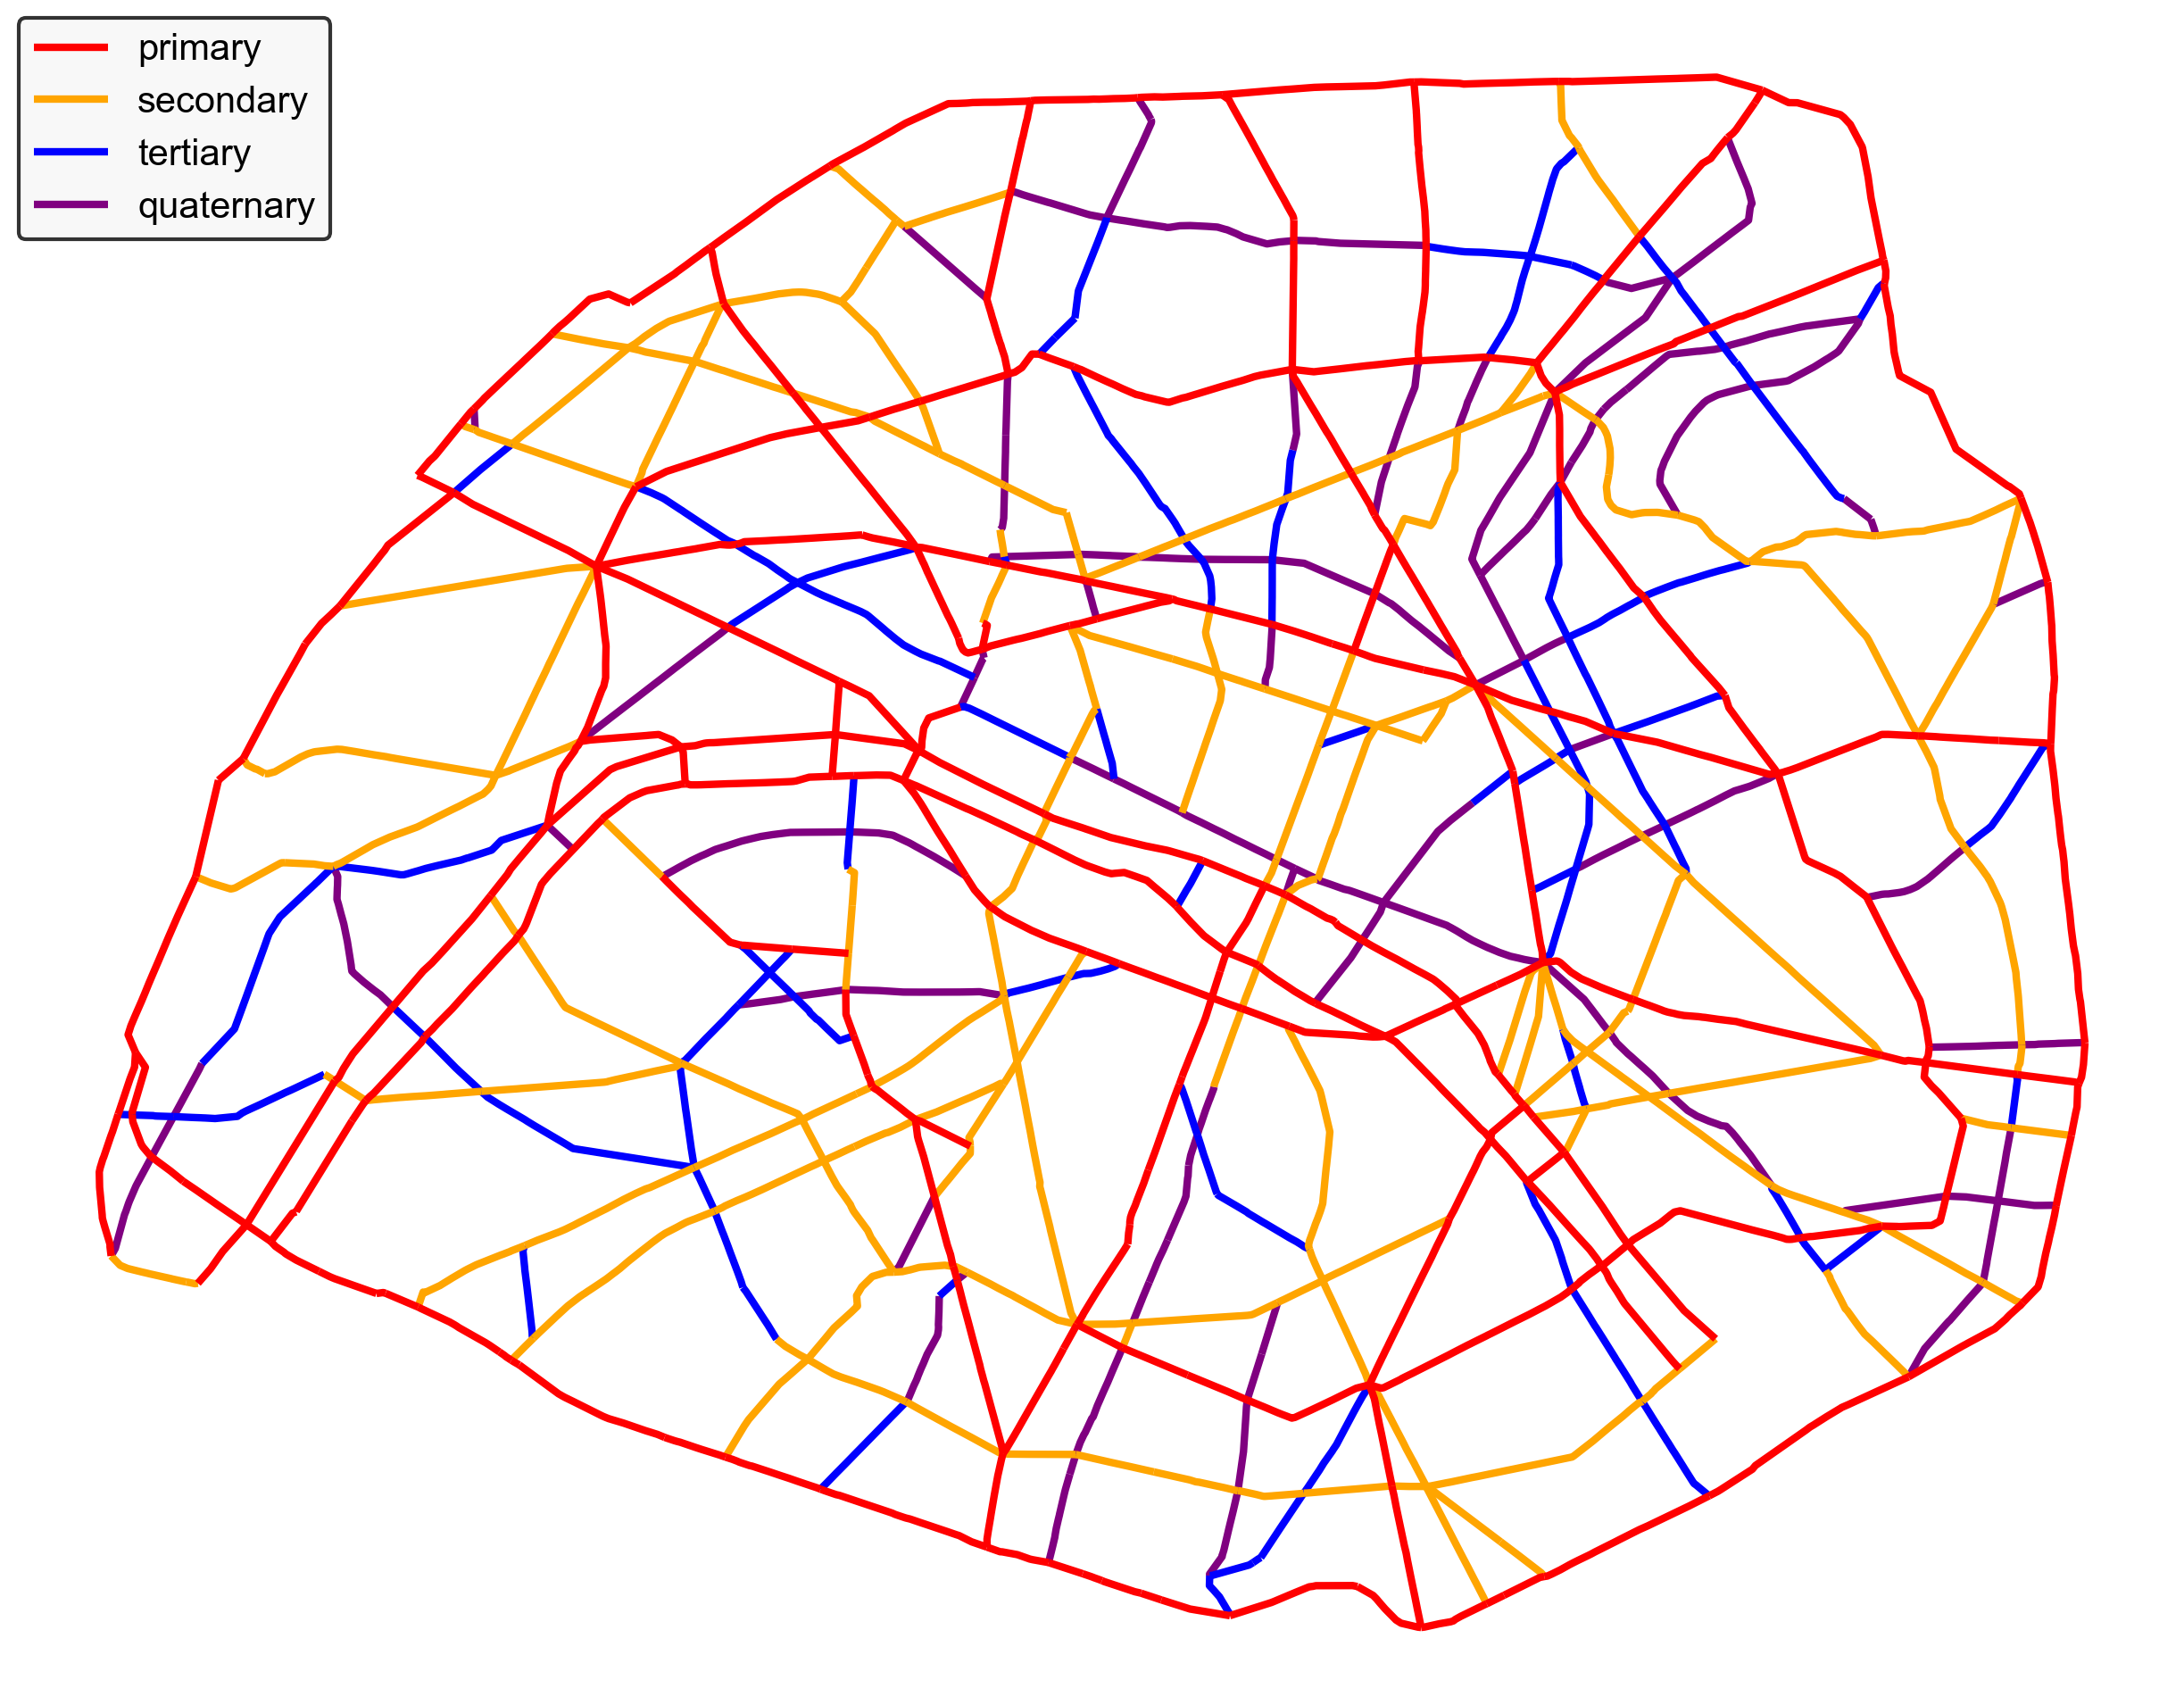
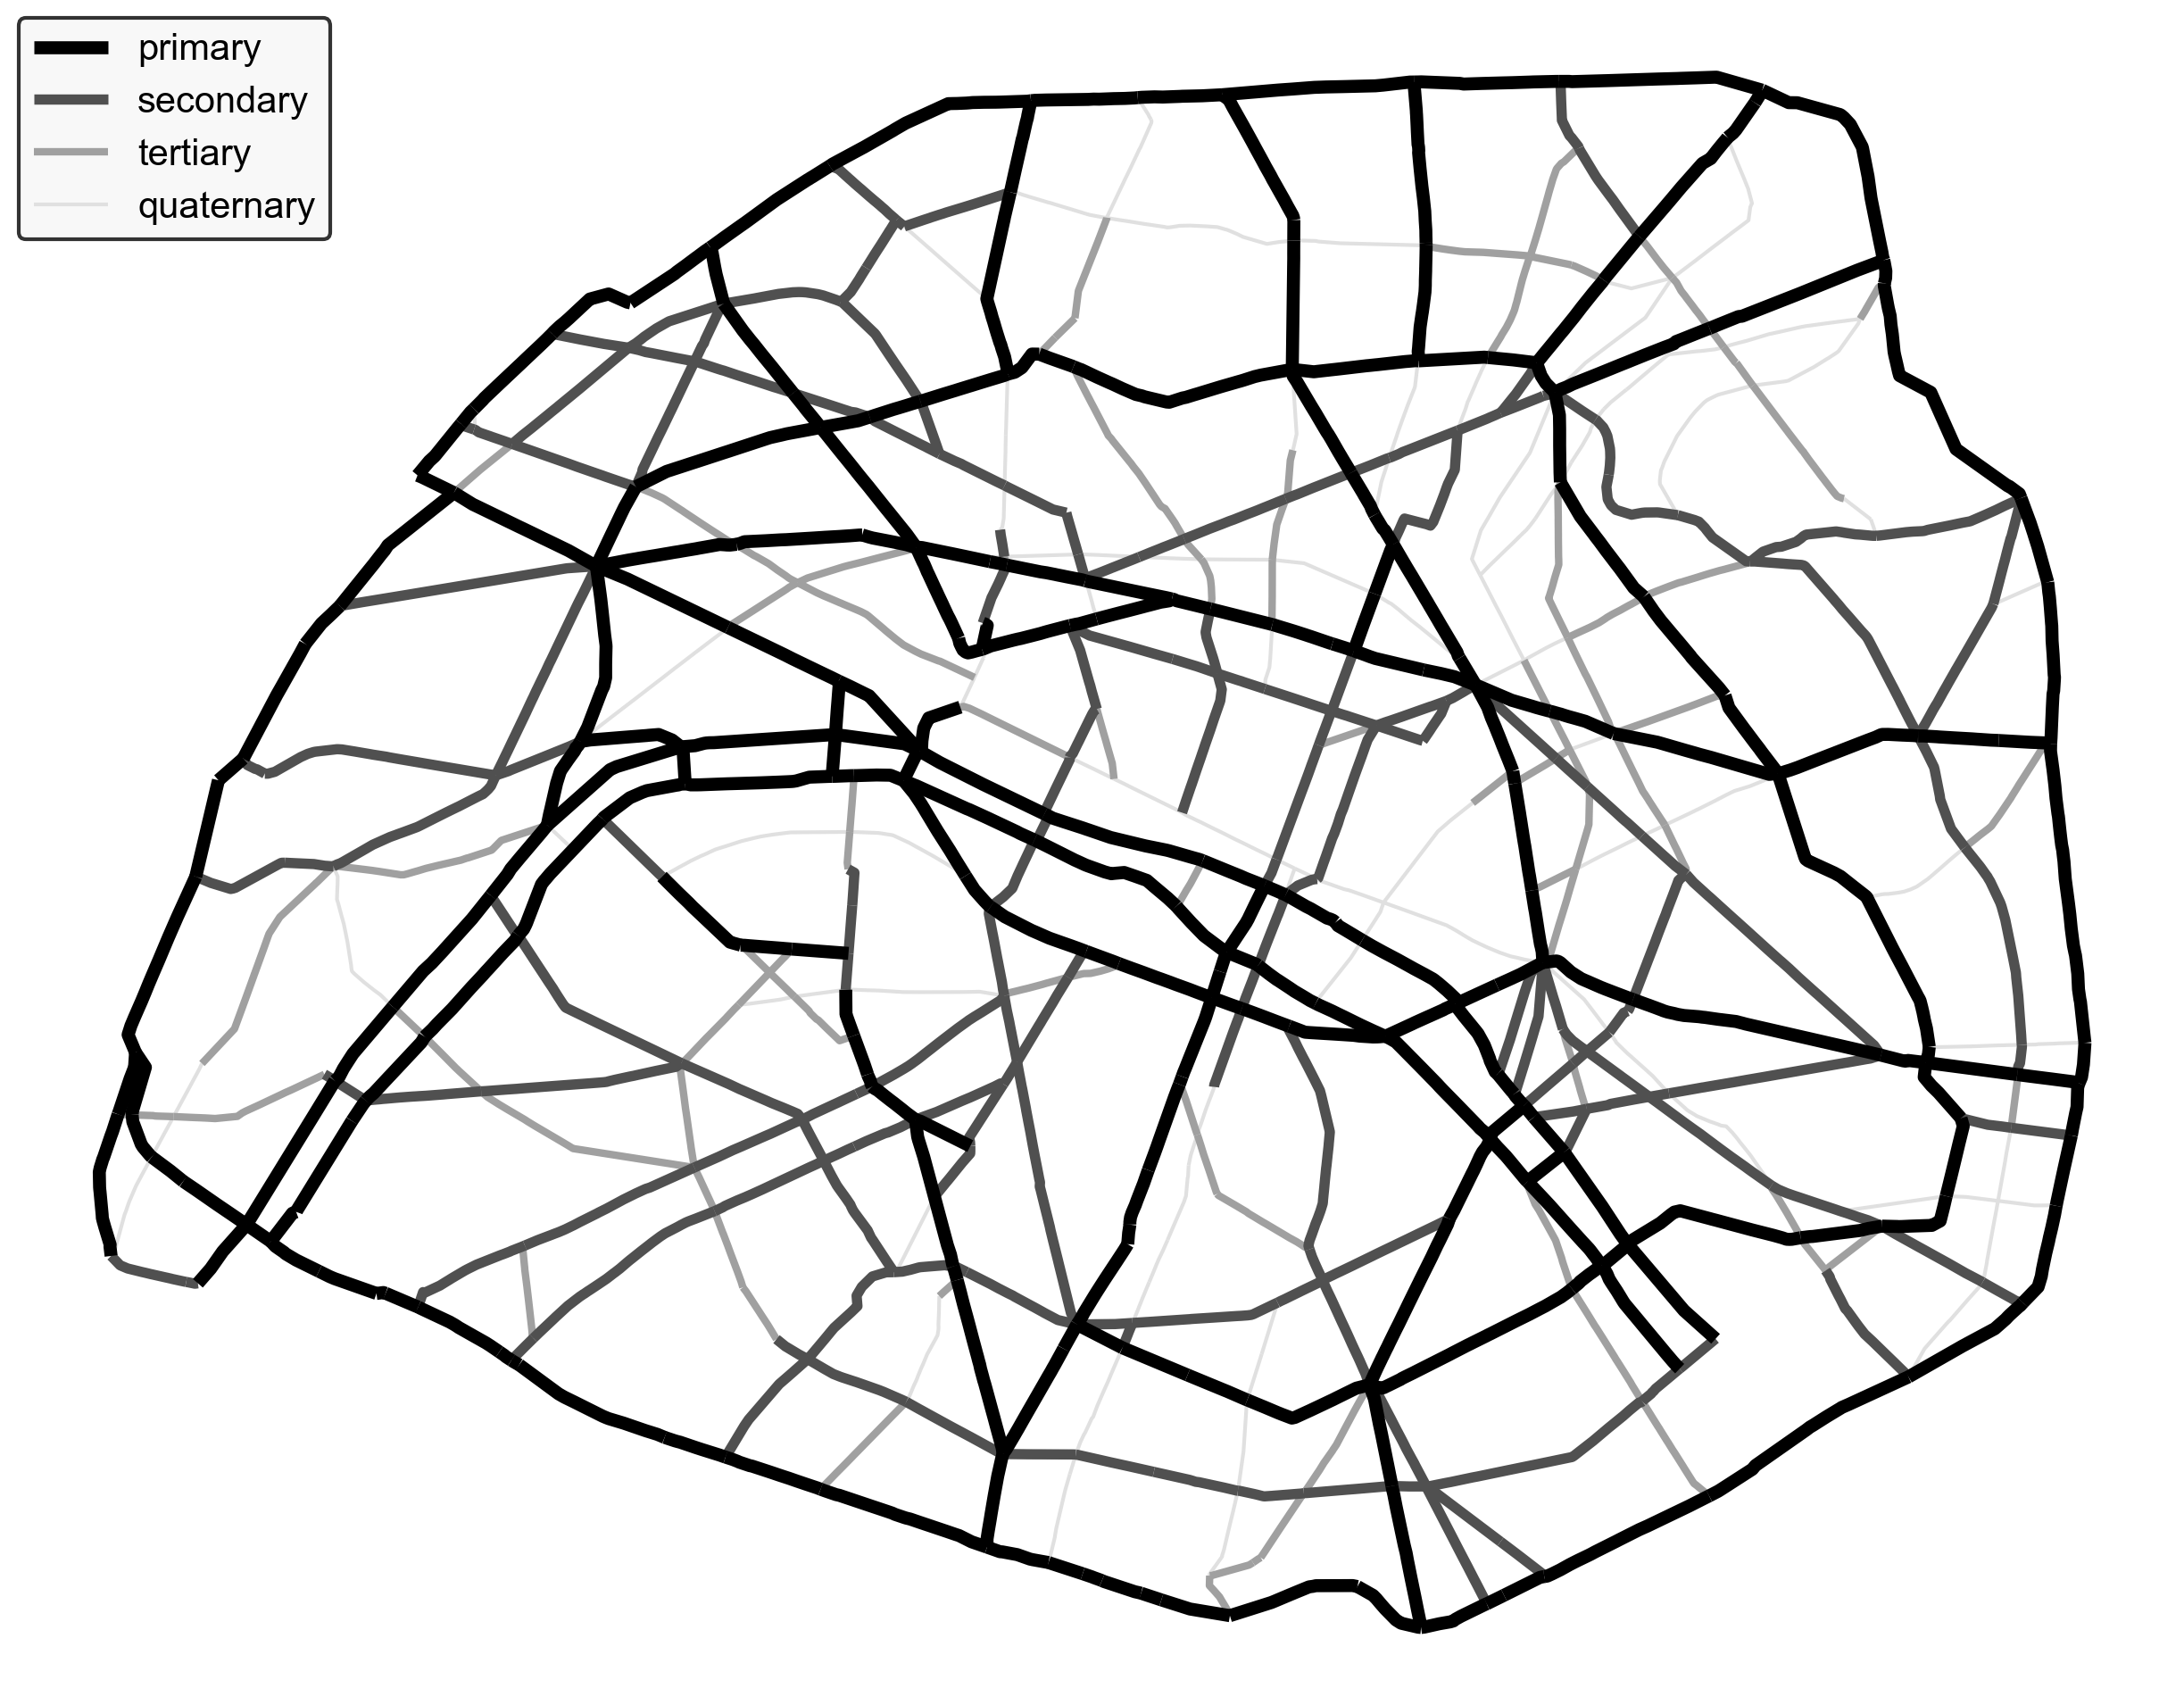
Update with 2026, prepare TODOS and hedgehog

diff --git a/scripts/N_plot_bikenet_single_map.py b/scripts/N_plot_bikenet_single_map.py
@@ -5,17 +5,31 @@ Plot map of the bicycle network, showing either the road hierarchy next to the b
 
 import os
 import geopandas as gpd
-import numpy as np
 import matplotlib as mpl
 from matplotlib import pyplot as plt
-from C_process_joined_pes import TIMESTAMPS
 from G_grow_bikenet import FOLDEROOT
 from I_plot_lineplot import FOLDERPLOT
-from J_plot_lineplot_hierarchy import ROAD_HIERARCHY, COLOR_HIERARCHY
 
 FOLDERMAPS = FOLDERPLOT + "maps/"
 FIGSIZE = [11.69, 8.27]
-LINEWIDTH = 2
+ROAD_HIERARCHY = [
+    "primary",
+    "secondary",
+    "tertiary",
+    "quaternary",
+]
+COLOR_HIERARCHY = [
+    "#000000",
+    "#505050",
+    "#A0A0A0",
+    "#E0E0E0",
+]
+LINEWIDTHS_HIERARCHY = [
+    3.5,
+    2.75,
+    2,
+    1,
+]
 DPI = 300
 RCPARAMS = {
     "font.size": 10,
@@ -25,11 +39,6 @@ RCPARAMS = {
     "legend.facecolor": "F7F7F7",
     "legend.loc": "upper left",
 }
-COLOR_BEG = "grey"
-COLOR_TIMESTAMPS = [
-    plt.get_cmap("summer")(val) for val in np.linspace(0, 1, len(TIMESTAMPS))
-]
-COLOR_END = "red"
 
 
 def main():
@@ -38,13 +47,12 @@ def main():
         os.makedirs(FOLDERMAPS)
     for key in RCPARAMS:
         mpl.rcParams[key] = RCPARAMS[key]
-    # Plot the hierarchy
     fig, ax = plt.subplots(figsize=FIGSIZE)
     for i in range(len(ROAD_HIERARCHY)):
         gdf_edges[gdf_edges["highway"] == ROAD_HIERARCHY[i]].plot(
             ax=ax,
             color=COLOR_HIERARCHY[i],
-            linewidth=LINEWIDTH,
+            linewidth=LINEWIDTHS_HIERARCHY[i],
             label=ROAD_HIERARCHY[i],
             zorder=5 - i,
         )
@@ -52,36 +60,6 @@ def main():
     ax.axis("off")
     fig.savefig(
         FOLDERMAPS + "Road_hierarchy.png", dpi=DPI, bbox_inches="tight", pad_inches=0
-    )
-    plt.close(fig=fig)
-    # Plot the time built
-    fig, ax = plt.subplots(figsize=FIGSIZE)
-    gdf_edges[gdf_edges["built_in"] == "2021-01-01"].plot(
-        ax=ax,
-        color=COLOR_BEG,
-        linewidth=LINEWIDTH,
-        label="Built before 2021",
-        zorder=10,
-    )
-    for i in range(len(TIMESTAMPS)):
-        gdf_edges[gdf_edges["built_in"] == TIMESTAMPS[i]].plot(
-            ax=ax,
-            color=COLOR_TIMESTAMPS[i],
-            linewidth=LINEWIDTH,
-            label=f"Built at {TIMESTAMPS[i]}",
-            zorder=10 - 1 - i,
-        )
-    gdf_edges[gdf_edges["built_in"] == "No"].plot(
-        ax=ax,
-        color=COLOR_END,
-        linewidth=LINEWIDTH,
-        label="Not built yet",
-        zorder=10 - 2 - len(TIMESTAMPS),
-    )
-    ax.legend()
-    ax.axis("off")
-    fig.savefig(
-        FOLDERMAPS + "Time_built.png", dpi=DPI, bbox_inches="tight", pad_inches=0
     )
     plt.close(fig=fig)
 

diff --git a/scripts/G_grow_bikenet.py b/scripts/G_grow_bikenet.py
@@ -33,6 +33,11 @@ BIKE_HIERARCHY_MAP = {
     "primary": 2,
     "secondary": 1,
 }
+END_FOLDERS = [
+    "Nothing",
+    "2021",
+    "2026",
+]
 BUFF_SIZE = 400
 NUM_RAND_TRIAL = 1000
 NUM_HIER_TRIAL = 1000
@@ -41,10 +46,7 @@ RECOMPUTE = False
 
 
 def main():
-    for end_folder in [
-        "Nothing",
-        "2021",
-    ]:
+    for end_folder in END_FOLDERS:
         folder_save = FOLDEROOT + end_folder + "/"
         if not os.path.exists(folder_save):
             os.makedirs(folder_save)
@@ -52,6 +54,10 @@ def main():
         if folder_save.split("/")[-2] == "2021":
             gdf_edges["built"] = gdf_edges["built_in"].apply(
                 lambda x: 1 if x == "2021-01-01" else 0
+            )
+        elif folder_save.split("/")[-2] == "2026":
+            gdf_edges["built"] = gdf_edges["built_in"].apply(
+                lambda x: 1 if x == "2026-01-28" else 0
             )
         elif folder_save.split("/")[-2] == "Nothing":
             G = mp.gdf_to_nx(gdf_edges, integer_labels=False, preserve_index=True)

diff --git a/scripts/H_compute_real_growth_bikenet.py b/scripts/H_compute_real_growth_bikenet.py
@@ -8,7 +8,7 @@ import json
 import networkx as nx
 import geopandas as gpd
 import momepy as mp
-from G_grow_bikenet import BUFF_SIZE, FOLDEROOT
+from G_grow_bikenet import BUFF_SIZE, FOLDEROOT, END_FOLDERS
 from paris_orderbike.metrics import directness, coverage
 
 TIMESTAMPS = [
@@ -26,10 +26,7 @@ TIMESTAMPS = [
 
 
 def main():
-    for end_folder in [
-        "Nothing",
-        "2021",
-    ]:
+    for end_folder in END_FOLDERS:
         folder_save = FOLDEROOT + end_folder + "/"
         if not os.path.exists(folder_save):
             os.makedirs(folder_save)
@@ -38,6 +35,10 @@ def main():
         if folder_save.split("/")[-2] == "2021":
             init_edge = [
                 edge for edge in G.edges if G.edges[edge]["built_in"] == "2021-01-01"
+            ]
+        elif folder_save.split("/")[-2] == "2026":
+            init_edge = [
+                edge for edge in G.edges if G.edges[edge]["built_in"] == "2026-01-28"
             ]
         elif folder_save.split("/")[-2] == "Nothing":
             closeness = nx.closeness_centrality(G, distance="length")

diff --git a/scripts/L_plot_AUC.py b/scripts/L_plot_AUC.py
@@ -9,7 +9,7 @@ import pandas as pd
 import matplotlib as mpl
 from matplotlib import pyplot as plt
 import numpy as np
-from G_grow_bikenet import FOLDEROOT
+from G_grow_bikenet import FOLDEROOT, END_FOLDERS
 from I_plot_lineplot import FOLDERPLOT
 
 
@@ -18,10 +18,7 @@ def main():
         plot_params = json.load(f)
     for key in plot_params["rcparams"]:
         mpl.rcParams[key] = plot_params["rcparams"][key]
-    for end_folder in [
-        "Nothing",
-        "2021",
-    ]:
+    for end_folder in END_FOLDERS:
         folder_data = FOLDEROOT + end_folder + "/"
         folder_plot = FOLDERPLOT + end_folder + "/AUC/"
         if not os.path.exists(folder_plot):
@@ -56,6 +53,8 @@ def main():
                     ]
                 },
             )
+            # TODO add light errorbar without cross and dot for hierarchy random
+            # TODO rename hierarchy random
             if met in ["random"]:
                 xx_mean = df_growth[mask_met]["AUC of Directness"].mean()
                 xx_std = df_growth[mask_met]["AUC of Directness"].std()

diff --git a/scripts/K_compute_AUC.py b/scripts/K_compute_AUC.py
@@ -12,6 +12,7 @@ from G_grow_bikenet import (
     NUM_RAND_TRIAL,
     NUM_COV_TRIAL,
     FOLDEROOT,
+    END_FOLDERS,
 )
 
 METRIC_LIST = [
@@ -31,10 +32,7 @@ EXP_DISC = False
 
 
 def main():
-    for end_folder in [
-        "Nothing",
-        "2021",
-    ]:
+    for end_folder in END_FOLDERS:
         folder_data = FOLDEROOT + end_folder + "/"
         aucs = []
         for met in METRIC_LIST:

diff --git a/scripts/I_plot_lineplot.py b/scripts/I_plot_lineplot.py
@@ -27,12 +27,15 @@ def main():
     for end_folder in [
         "Nothing",
         "2021",
+        "2026",
     ]:
         folder_data = FOLDEROOT + end_folder + "/"
         folder_plot = FOLDERPLOT + end_folder + "/lineplot/"
         if not os.path.exists(folder_plot):
             os.makedirs(folder_plot)
         avg = {}
+        # TODO normalize by random
+        # TODO select same as for small multiples
         for met in plot_params["order"]:
             foldermet = folder_data + f"bs_{BUFF_SIZE}_{met}/"
             if met in ["random", "road_hierarchy", "bikenet_hierarchy", "coverage"]:

diff --git a/scripts/M_plot_bikenet_growths.py b/scripts/M_plot_bikenet_growths.py
@@ -38,7 +38,8 @@ def main():
     G = mp.gdf_to_nx(gdf_edges, integer_labels=False, preserve_index=True)
     for end_folder in [
         # "Nothing",
-        "2021",
+        # "2021",
+        "2026",
     ]:
         folder_data = FOLDEROOT + end_folder + "/"
         folder_plot = FOLDERPLOT + end_folder + "/growths/"

diff --git a/scripts/O_plot_bikenet_multiple_map.py b/scripts/O_plot_bikenet_multiple_map.py
@@ -2,6 +2,8 @@
 """
 Plot maps of the bicycle network at different timestamps.
 """
+# TODO select 40, 120, and 200, add real growth as a row with only last 2 values shown
+# TODO remove nodes
 
 import json
 import geopandas as gpd

diff --git a/scripts/J_plot_hedgehog.py b/scripts/J_plot_hedgehog.py
@@ -1,0 +1,1 @@
+# TODO plot hedgehog with Nothing, 2021, and 2026, for selected metrics